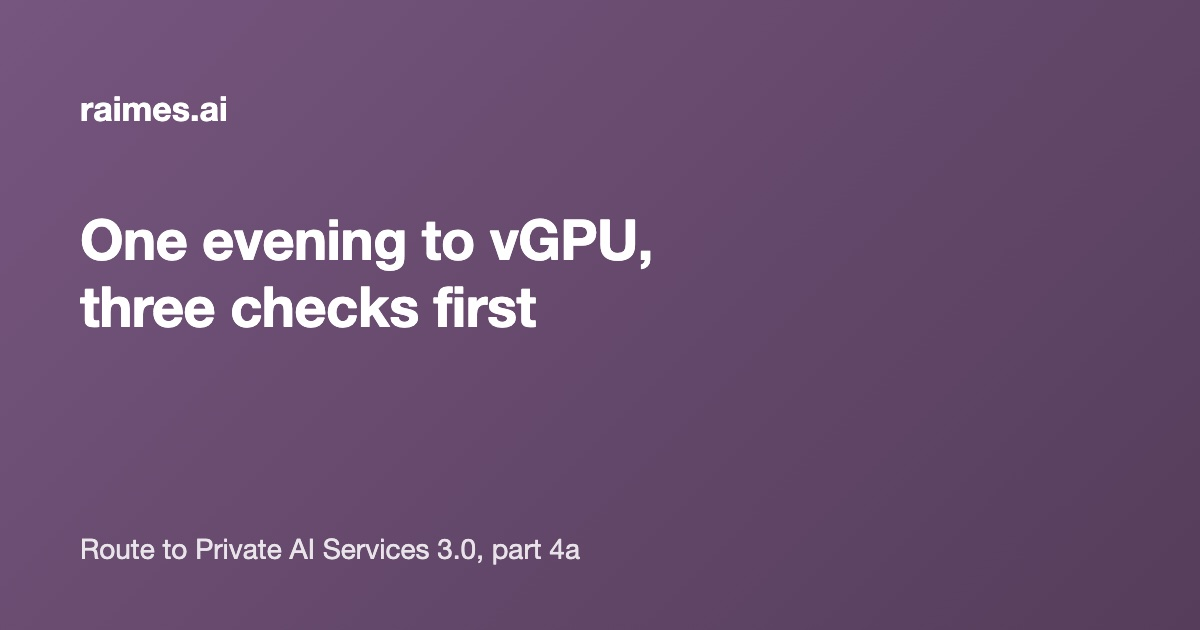
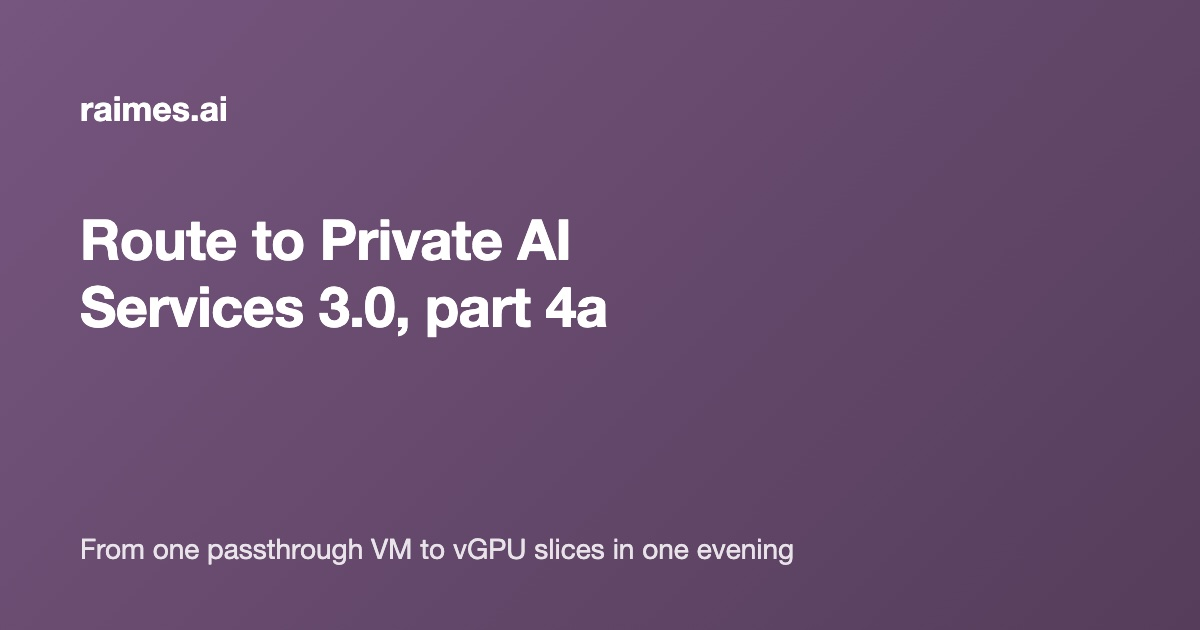
Part 4: titles name the outcome, covers re-rendered, architecture piece in the backlog

Changed region(s): [[0.0617, 0.3317, 0.555, 0.5429], [0.0617, 0.8444, 0.6783, 0.9048]]

diff --git a/CLAUDE.md b/CLAUDE.md
@@ -77,7 +77,7 @@ Personal blog, Hugo + PaperMod, hosted on Hetzner Webhosting L since 2026-10-17 
 
 - **2026-11-01 night, language round 2 over all 15 posts (Raiko: "in einem Fork alle Blog-Artikel nochmal prüfen und korrigieren"):** 120 replacements out of 139 proposals, protocol in `SPRACHRUNDE-2026-11-01.md` section "Runde 2"; per post: `private-ai-services-3-on-vcf-9-1-1` 16, `sharing-one-gpu-on-the-kubernetes-layer` 14, `voice-box-deep-dive` 12, `my-homelab-in-five-layers` 11, `model-as-a-service-with-private-ai-services` 10, `rtx-a5000-behind-the-same-service-name` 10, `private-ai-services-without-a-gpu` 9, `gpu-architecture-for-model-serving-on-vcf` 6, `kubernetes-api-on-vsphere-in-one-evening` 6, `one-evening-to-vgpu-three-checks-first` 6, `hello-again` 5, `one-card-three-endpoints-the-numbers` 4, `sonos-wifi-tune-up-with-claude-code` 4, `voice-assistant-for-a-five-year-old` 4, `six-endpoints-on-one-card` 3. Skipped on purpose: "tenant" in the two multi-tenancy articles, allowed abbreviations, the "start it a week before" advice in 4a. Not committed; Raiko reviews `git diff -- content/posts` and pushes.
 - **2026-11-01 23:00, wording: "endpoint" instead of "tenant" (Raiko):** in the VCF context a tenant is a namespace or VPC with its own quota and gateway; the lab runs all endpoints in one PAIS namespace, so "six tenants" would claim multi-tenancy the lab does not show. Renamed: 4b slug `one-card-three-endpoints-the-numbers` (was `…-three-tenants-…`), 4c slug `six-endpoints-on-one-card` (was `six-tenants-…`), image folders, covers (re-rendered) and `scripts/chart-vgpu-endpoints.py` (was `chart-vgpu-tenants.py`). Prose uses "endpoint" for PAIS objects, "VM" or "slice" for the card, "GPU consumer" as the neutral noun (the Operations dashboard name); one explaining sentence on tenants in 4b (method) and 4c (plan). Lab-repo result pages and script names keep "tenant" internally.
-- **2026-11-01 late, 4c drafted:** `content/posts/six-endpoints-on-one-card.md` (draft, date 2026-11-01T23:00; Raiko 2026-11-01: "Dreier-Release am Dienstag", 4a + 4b + 4c together on 2026-11-04 with one LinkedIn post). Content: six 4C slices, the fifth slice refused in mixed-size mode (placement IDs, NVIDIA table 6 vs 4, vCenter Monitor → DirectPath Profiles Utilization shows Consumed/Remaining/Maximum), mode switch needs an empty card and a host reboot, four post-reboot leftovers, CLS allocation of six seats exhausted by 24 h leases of deleted nodes (unlicensed slices crawl silently; fix in the portal), six-endpoint numbers with the alone baseline (each endpoint keeps about 28 %), checks 4 and 5. Facts from `../homelab/vcf-lab/benchmarks/vgpu-a5000-2026-11-01.md`. Cover rendered (`make-cover.py six-endpoints-on-one-card vmware`). Images in `static/images/six-endpoints-on-one-card/`: `vcenter-directpath-profiles.jpg` (rescued from the Chrome extension transcript, 1413×746, Raiko's Cmd+Shift+4 versions to replace it), `ops-host-gpu-utilisation.jpg` and `ops-gpu-consumers-six.jpg` still to come from Raiko. Language round by a sonnet subagent pending at the time of writing. `publish-post.sh` takes several slugs since 2026-11-01 23:25 (one commit, dates one minute apart, the last slug lands on top; `DRY=1` shows the plan): for Tuesday `bash scripts/publish-post.sh six-endpoints-on-one-card one-card-three-endpoints-the-numbers one-evening-to-vgpu-three-checks-first [de.raimes.<label>]`. Raiko (2026-11-01 23:27): arm the 09:00 LaunchAgent on Monday evening 2026-11-03, not before; raimes.ai must be pushed by then. The three 4c images from Raiko's Operations screenshots are in place (`ops-host-gpu-utilisation.jpg`, `ops-gpu-consumers-summary.jpg`, `ops-gpu-consumers-six.jpg`; originals in `~/claude-projects/_vorschau/ops-2026-11-01/`). LinkedIn: Raiko chose the short version (100 words) on 2026-11-01; the long one stays in the file as reserve; image is the light flow diagram.
+- **2026-11-01 late, 4c drafted:** `content/posts/six-endpoints-on-one-card.md` (draft, date 2026-11-01T23:00; Raiko 2026-11-01: "Dreier-Release am Dienstag", 4a + 4b + 4c together on 2026-11-04 with one LinkedIn post). Content: six 4C slices, the fifth slice refused in mixed-size mode (placement IDs, NVIDIA table 6 vs 4, vCenter Monitor → DirectPath Profiles Utilization shows Consumed/Remaining/Maximum), mode switch needs an empty card and a host reboot, four post-reboot leftovers, CLS allocation of six seats exhausted by 24 h leases of deleted nodes (unlicensed slices crawl silently; fix in the portal), six-endpoint numbers with the alone baseline (each endpoint keeps about 28 %), checks 4 and 5. Facts from `../homelab/vcf-lab/benchmarks/vgpu-a5000-2026-11-01.md`. Cover rendered (`make-cover.py six-endpoints-on-one-card vmware`). Images in `static/images/six-endpoints-on-one-card/`: `vcenter-directpath-profiles.jpg` (rescued from the Chrome extension transcript, 1413×746, Raiko's Cmd+Shift+4 versions to replace it), `ops-host-gpu-utilisation.jpg` and `ops-gpu-consumers-six.jpg` still to come from Raiko. Language round by a sonnet subagent pending at the time of writing. `publish-post.sh` takes several slugs since 2026-11-01 23:25 (one commit, dates one minute apart, the last slug lands on top; `DRY=1` shows the plan): for Tuesday `bash scripts/publish-post.sh six-endpoints-on-one-card one-card-three-endpoints-the-numbers one-evening-to-vgpu-three-checks-first [de.raimes.<label>]`. Raiko (2026-11-01 23:27): arm the 09:00 LaunchAgent on Monday evening 2026-11-03, not before; raimes.ai must be pushed by then. The three 4c images from Raiko's Operations screenshots are in place (`ops-host-gpu-utilisation.jpg`, `ops-gpu-consumers-summary.jpg`, `ops-gpu-consumers-six.jpg`; originals in `~/claude-projects/_vorschau/ops-2026-11-01/`). LinkedIn: Raiko chose the short version (100 words) on 2026-11-01; the long one stays in the file as reserve; image is the light flow diagram. Review by Raiko done 2026-11-02 morning ("passt jetzt gut"); the last reassurance sentence in 4a's intro and summary ("each step leaves a log line that confirms it") was replaced by plain wording, commit ec255bf. Timer plist `../homelab/mac-mini/launchagents/de.raimes.publish-once.plist` already carries the three slugs and 2026-11-04 09:00 (DRY run of the script with the label checked); Monday evening only copy and bootstrap remain. Titles changed 2026-11-02 midday on Raiko's request (outcome instead of method, slugs unchanged, covers re-rendered, 4a teaser bullets and the LinkedIn comment lines updated): 4a "from one passthrough VM to vGPU slices in one evening", 4b "one card cut into slices: what each endpoint gets, measured", 4c "six model endpoints on one 24 GB card, all busy at once".
 - **2026-11-01 evening, 4a:** new section "One YAML object, and PAIS runs the rest" before Check 3 (PAIS creates and lifecycles the VKS cluster `pais-30695622`, every ModelEndpoint is a node pool sized by its VM class; Raiko: "das müssen wir im Blog herausstellen") with the diagram `static/images/one-evening-to-vgpu-three-checks-first/pais-modelendpoint-flow.svg` (+ `@2x.png` for LinkedIn), generated by `../homelab/vcf-lab/diagrams/pais-modelendpoint-flow.py` (same style as the gateway-path diagrams; PNG via headless Chrome `--force-device-scale-factor=2`). TL;DR got the bullet "PAIS runs the Kubernetes cluster itself". The six-4C evening's placement finding (mixed-size mode offers four 4C slots) is in the diagram's step 5 and belongs in 4b or a follow-up, not yet in 4a's prose.
 - Part 4 is a triple release on Tuesday 2026-11-04, 09:00 (decision 2026-11-01 19:43): 4a `one-evening-to-vgpu-three-checks-first` (route), 4b `one-card-three-endpoints-the-numbers` (three endpoints), 4c working title "Six endpoints on one card" (the 6x4C evening of 2026-11-01, written in the night after the measurements; Raiko rejected shipping 4c a week later). One LinkedIn post with three links: `../linkedin-post-route-to-pais-part-4.md` needs three links instead of two. When 4c is live, the footer of 4a and the sentence in "What comes next" must point to 4c (diagram step 5 names the finding "the fifth slice never came"). Why the split: part 4 had 3,525 words, the Operations draft 2,735, merged over 6,000. The Operations article "VCF Operations sees the shared GPU" was dropped (Raiko, 12:55: "ops ausrollen ist für jeden VMware-Erfahrenen ein No-Brainer"; no installation story, no traps); Operations appears only as a paragraph with an image in 4a and 4b. First cut `one-card-three-endpoints-vgpu-on-the-a5000.md` is in `_vorschau/alt/`.
 - Part 4 open before 2026-11-04: Raiko reads and cuts 4a and 4b. Three portal screenshots in `../homelab/vcf-lab/screenshots/vgpu-portal-2026-10-31/` (entitlement features, allocation "Deployed (CLS)", device selection in the VM class wizard; PAK and token blacked out). Heat map `gpu-heatmaps.jpg` comes from the idle state with a hover frame (cursor retouched with Pillow); retake under load with six tiles and no mouse is pending; Operations screenshots are only 1412 x 710. After part 4: scheduler comparison (Best Effort / Equal Share / Fixed Share, one host restart each, against the 8 + 8 figure 88.7 / 88.5) as a short follow-up, then the decision article (passthrough, DRA or vGPU).
@@ -93,3 +93,4 @@ Personal blog, Hugo + PaperMod, hosted on Hetzner Webhosting L since 2026-10-17 
 - Removed patterns (negative list): "how the sausage is made", "bare metal with a vSphere badge", "the exception that proves the rule", "Teams keep their walls, the GPUs lose theirs", "So much for local is faster", "honest" five times, the triple cascade in the voice post, "a instance". "Read it as a lab route" and "lightweight way" are gone. "Königsdisziplin" stays as Raiko's own framing. Abbreviations OIDC, IdP, MIG, RDMA, VPC, NUMA, ACS, KV, DRA, CRD spelled out where the long form was missing.
 - Setting sentence, identical in parts 1 to 3, the DRA post, 4a and 4b: PAIS 3.0 is fully supported on plain vSphere/vCenter, the lab rebuilds that; multi-tenancy and NSX VPC of VCF would be welcome, but the lab is small.
 - Open (Raiko decides): title "part 1 of 3" in part 1 and the 3090 outlook at the end of part 2 are outdated but stay for now. The older draft "Model as a Service, the bare minimum" (2026-10-21) is unread: publish, rework or delete?
+- Next piece after the triple release (Raiko, 2026-11-02 morning, confirmed): an architecture article on PAIS 3.0 for platform teams, see `EDITORIAL.md` row "week of 10.11."; it folds in the bare-minimum draft (answers the open question above) and becomes the hub page of the series. Not part of Tuesday; outline and layer sketch to be discussed with Raiko on the evening of 2026-11-04 or 2026-11-05.

diff --git a/EDITORIAL.md b/EDITORIAL.md
@@ -35,6 +35,7 @@ Two threads alternate: the tools and infrastructure thread (Claude Code, homelab
 | 2g | Route to Private AI Services 3.0, part 2 of 3: a private AI gateway without a GPU, with Claude behind it | PAIS 3.0 on vCenter alone, Model Runtime only on CPU, Claude via InferenceGatewayRoute, three traps, lab concierge with one read-only kubectl tool; VCF with VCF Automation named as the enterprise route | published 2026-10-20, https://raimes.ai/posts/private-ai-services-without-a-gpu/ |
 | 2g+ | Model as a Service, the bare minimum: AI models as a platform service with Private AI Services 3.0 | Model Runtime only for app teams on the VMware stack (base URL, token, service name), service names instead of model names (lab-fast/balanced/deep → Haiku/Sonnet/Opus), one request traced through four hops (~30 ms platform overhead), the answer's model field echoes the service name, metrics per service name and two traps, direct vs brokered with the PAIS 3.0 gaps | draft 2026-10-21, `content/posts/model-as-a-service-with-private-ai-services.md` |
 | 2h | Route to Private AI Services 3.0, part 3: a refurbished RTX A5000 behind the same service name | A5000 in passthrough without a reboot, CPU-only to GPU with one nvidiaConfig patch (GPU Operator in 30 s), VM class with MMIO parameters, Harbor plus Model Gallery, ModelEndpoint with the llama.cpp CUDA image, six minutes to Ready, numbers table (same Gemma model 9.3 vs 72.6 tok/s, Qwen 27B, Ollama 4090, Haiku, Sonnet; one and eight parallel), lab-fast swap with the engine-immutable trap and the concierge double run, what passthrough cannot do, outlook parts 4 to 6 | published 2026-10-27 20:50 (Raiko's call), https://raimes.ai/posts/rtx-a5000-behind-the-same-service-name/ ; LinkedIn posted the same evening |
+| week of 10.11. | Private AI Services 3.0: the architecture, and what it does for a platform team | Layers from vSphere and Supervisor up to the gateway, two paths (lifecycle: ModelEndpoint to running model, the flow diagram from 4a; request: service name to answer, from the bare-minimum draft), the three objects a team touches (VM class, ModelEndpoint, InferenceGatewayRoute), benefit as operating model and what PAIS 3.0 does not do; lab example: kubectl apply to a licensed model in nine minutes | idea 2026-11-02 (Raiko, confirmed while reviewing part 4 and the flow diagram); not on the Tuesday release; outline and layer sketch to be walked through with Raiko on the evening of 04.11. or 05.11.; folds in the unpublished bare-minimum draft and becomes the hub page the parts link to; before part 5 |
 | later | Route to Private AI Services 3.0, part 5: full capabilities | Knowledge bases with an embedding model on CPU, PostgreSQL; candidate section from a reader comment on part 3 (2026-10-27): trim kubectl output in the tool first (structured, deterministic), then a small local model on the A5000 as picker for unstructured output (logs, events, describe), two service names behind one gateway; picker selects, never judges | idea; parts 4 (vGPU) and 6 (MCP, Agent Builder) and an economics piece are announced in part 3 |
 | 3, Tue 21.10. | Dino of the day: why image models cannot draw a Stegosaurus | Licensed Wikimedia art first, a vector drawing as the reliable layer, Flux has no anatomy, an LLM judge needs two passes | App-Development/Dino-des-Tages |
 | 4, Tue 28.10. | An AI sales desk for selling old hardware | Evidence per claim before "ready", duplicate detection, fraud patterns in offers, Cloud Run with workers at home, the day bucket reads cost 2.50 EUR | SalesSupportApp (no buyer names, no serials, no order numbers) |

diff --git a/content/posts/one-evening-to-vgpu-three-checks-first.md b/content/posts/one-evening-to-vgpu-three-checks-first.md
@@ -1,11 +1,11 @@
 ---
-title: "Route to Private AI Services 3.0, part 4a: one evening to vGPU, three checks first"
+title: "Route to Private AI Services 3.0, part 4a: from one passthrough VM to vGPU slices in one evening"
 date: 2026-11-01T12:00:00+01:00
 draft: true
 written_with_claude: true
 cover:
   image: "/images/covers/one-evening-to-vgpu-three-checks-first.jpg"
-  alt: "Route to Private AI Services 3.0, part 4a: one evening to vGPU, three checks first"
+  alt: "Route to Private AI Services 3.0, part 4a: from one passthrough VM to vGPU slices in one evening"
 categories: ["vmware"]
 tags: ["private-ai", "homelab", "gpu", "vgpu"]
 summary: "Part 4 of my route to Private AI Services 3.0 comes in three pieces, published together. This first piece is the route from a passthrough card to NVIDIA vGPU slices on one host in one evening: the licence side, the version chain, and three checks that would have saved me two hours. For each step I note the log line I used to check it, and a VCF Operations instance next to the vCenter shows the result without extra setup. Part 4b has the numbers for one to three endpoints, part 4c pushes the card to six."
@@ -14,8 +14,8 @@ summary: "Part 4 of my route to Private AI Services 3.0 comes in three pieces, p
 [Part 3](/posts/rtx-a5000-behind-the-same-service-name/) ended with 15 GB of the RTX A5000 sitting idle because passthrough gives the whole card to one VM. While NVIDIA sorted out my licence entitlement, I took an unplanned [detour on the Kubernetes layer](/posts/sharing-one-gpu-on-the-kubernetes-layer/): Dynamic Resource Allocation (DRA) on a vSphere Kubernetes Service (VKS) cluster, two model instances sharing the card with time-slicing and MPS, no licence and no host driver involved. That detour gave me numbers to compare against, and it raised the question: what does vGPU add on top? Part 4 answers it, in three pieces published together:
 
 - **4a, this piece:** the route from passthrough to vGPU slices on one host, and the three checks I would do first.
-- **[4b, the numbers](/posts/one-card-three-endpoints-the-numbers/):** one endpoint, two endpoints, three endpoints on one card, with the curves from the host.
-- **[4c, six endpoints on one card](/posts/six-endpoints-on-one-card/):** six 4 GB slices, the two limits I hit on the way (the host's vGPU mode and the licence pool), and two more checks for the list.
+- **[4b, one card cut into slices: what each endpoint gets, measured](/posts/one-card-three-endpoints-the-numbers/):** one endpoint, two endpoints, three endpoints on one card, with the curves from the host.
+- **[4c, six model endpoints on one 24 GB card, all busy at once](/posts/six-endpoints-on-one-card/):** six 4 GB slices, the two limits I hit on the way (the host's vGPU mode and the licence pool), and two more checks for the list.
 
 NVIDIA vGPU splits the card into slices, each slice goes into its own VKS worker, and Private AI Services (PAIS) 3.0 runs a model endpoint per slice. In the vSphere community this is seen as the Königsdisziplin, the supreme discipline: NVIDIA, Broadcom, Kubernetes and the model engine all have to fit together before the first slice works. In my lab that took one evening on one host. This piece describes the route and names three things I would check before starting, because they would have saved me two hours.
 

diff --git a/content/posts/one-card-three-endpoints-the-numbers.md b/content/posts/one-card-three-endpoints-the-numbers.md
@@ -1,11 +1,11 @@
 ---
-title: "Route to Private AI Services 3.0, part 4b: one card, three endpoints, the numbers"
+title: "Route to Private AI Services 3.0, part 4b: one card cut into slices: what each endpoint gets, measured"
 date: 2026-11-01T11:30:00+01:00
 draft: true
 written_with_claude: true
 cover:
   image: "/images/covers/one-card-three-endpoints-the-numbers.jpg"
-  alt: "Route to Private AI Services 3.0, part 4b: one card, three endpoints, the numbers"
+  alt: "Route to Private AI Services 3.0, part 4b: one card cut into slices: what each endpoint gets, measured"
 categories: ["vmware"]
 tags: ["private-ai", "homelab", "gpu", "vgpu", "benchmark"]
 summary: "Second of three pieces of part 4. The RTX A5000 is cut into NVIDIA vGPU slices, and Private AI Services 3.0 runs one, two and then three model endpoints on it. One 12 GB slice alone is the whole card. Two busy 12 GB slices share it exactly in half. A 4 GB embedding endpoint next to a 12 GB chat endpoint costs the chat endpoint three percent. A 12B model in 4-bit does not fit an 8 GB slice. Plus the same load as curves in VCF Operations, per card and per slice, with no management pack."

diff --git a/content/posts/six-endpoints-on-one-card.md b/content/posts/six-endpoints-on-one-card.md
@@ -1,11 +1,11 @@
 ---
-title: "Route to Private AI Services 3.0, part 4c: six endpoints on one card"
+title: "Route to Private AI Services 3.0, part 4c: six model endpoints on one 24 GB card, all busy at once"
 date: 2026-11-01T22:30:00+01:00
 draft: true
 written_with_claude: true
 cover:
   image: "/images/covers/six-endpoints-on-one-card.jpg"
-  alt: "Route to Private AI Services 3.0, part 4c: six endpoints on one card"
+  alt: "Route to Private AI Services 3.0, part 4c: six model endpoints on one 24 GB card, all busy at once"
 categories: ["vmware"]
 tags: ["private-ai", "homelab", "gpu", "vgpu", "benchmark", "licensing"]
 summary: "Third piece of part 4. The RTX A5000 is cut into six 4 GB vGPU slices, and Private AI Services 3.0 runs six model endpoints on it: three chat and three embedding. The fifth slice only came after I switched the card out of mixed-size mode. Five of six slices ran slowly until I made the licence pool larger. vCenter shows the limit for the first problem on a page I had not opened before. With six endpoints busy at once, each keeps about a quarter of the card."
